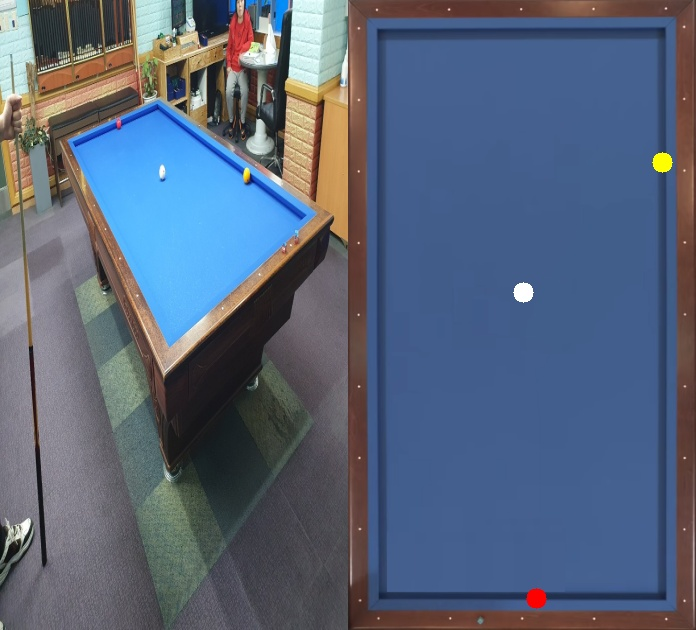
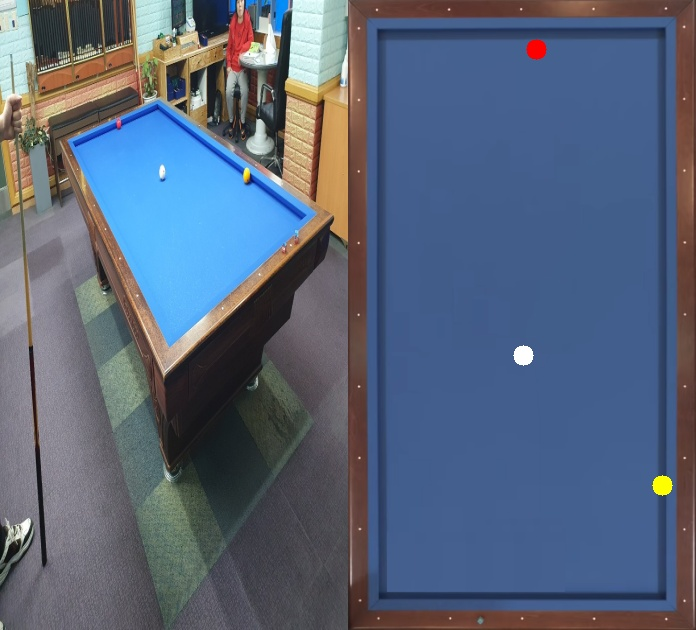
좌표 입력순서바꿔서 위아래 맞게함

diff --git a/cordinate/point_order.py b/cordinate/point_order.py
@@ -70,10 +70,10 @@ def point_order(point_list) :
         
         if to_p3 > to_p4 :
             #return np.array([p, point_list[2], point_list[1], p_])
-            return np.array([p, point_list[1], point_list[2], p_])
+            return np.array([point_list[2], p_, p, point_list[1]])
         else :
             #return np.array([p, point_list[1], point_list[2], p_])
-            return np.array([p, point_list[2], point_list[1], p_])
+            return np.array([point_list[1], p_, p, point_list[2]])
     
         
     elif biggest_angle == 'point3' or 'point4' :
@@ -90,10 +90,10 @@ def point_order(point_list) :
         
         if to_p1 > to_p2 :
             #return np.array([p, key_point, p1, p_])
-            return np.array([p, p1, key_point, p_])
+            return np.array([key_point, p_, p, p1])
         else :
             #return np.array([p, p1, key_point, p_])
-            return np.array([p, key_point, p1, p_])
+            return np.array([p1, p_, p, key_point])
         
     
 
